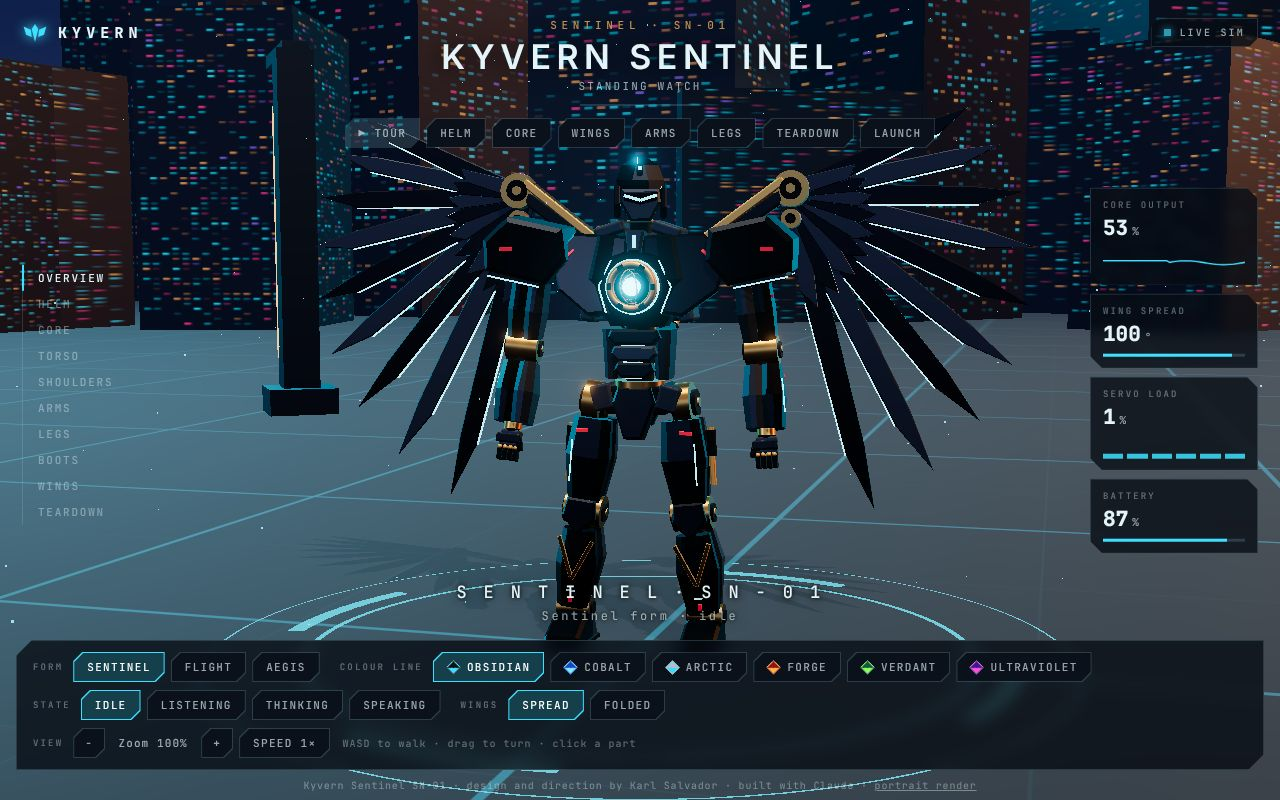
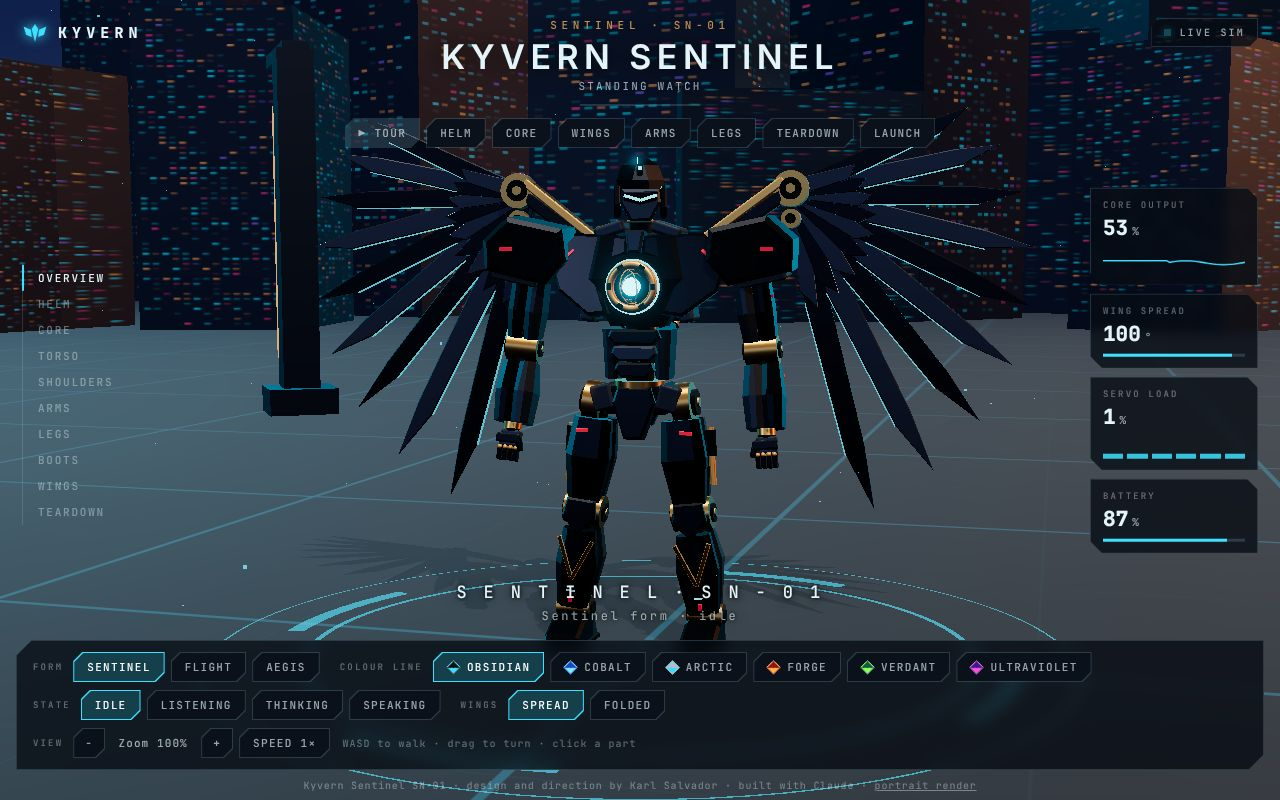
Wire labels to their parts and cut the excess lights
Labels now have a dot on the part's own metal and a leader line out to the
name, sit on the side their part is on, and are pushed apart so they never
overlap. The anchor snaps to the nearest piece of the part, so rings and the
blade fan are no longer labelled in empty air.

The model loses most of its seam lights (abdomen, pectorals, sternum,
pauldrons, forearms, thighs); the visor, core, crest and shin lights stay.
Wing blade lines become a thin dim edge. Bloom, rim lights, pad rings, dust,
city windows and pylon lamps are all turned down.

Claude-Session: https://claude.ai/code/session_01KMbkSirJf4C6Ak7wdUTyXJ

diff --git a/src/sentinel/model.js b/src/sentinel/model.js
@@ -21,7 +21,7 @@ const BLADES = 9;
 const WRIST = [0.84, 0.58, -0.1];
 
 export function buildSentinel(rig, m) {
-  const { armor: A, armor2: A2, frame: F, trim: T, glow: G, mark: R, core: CORE, thrust: TH, visor: V } = m;
+  const { armor: A, armor2: A2, frame: F, trim: T, glow: G, mark: R, core: CORE, thrust: TH, visor: V, edge: E } = m;
   for (const s of SECTIONS) rig.section(s);
   const handles = { feathers: [], orbit: [], reactor: null };
 
@@ -45,7 +45,7 @@ export function buildSentinel(rig, m) {
   abdomen.add('Spine column', group([mesh(disc(0.11, 0.44), F, [0, 0.21, 0]), mesh(ring(0.115, 0.012, 'y'), T, [0, 0.12, 0]), mesh(ring(0.115, 0.012, 'y'), T, [0, 0.3, 0])]));
   const ab = (w) => [[-w, 0.058], [w, 0.058], [w + 0.025, 0], [w - 0.03, -0.058], [-w + 0.03, -0.058], [-w - 0.025, 0]];
   [['Upper ab plate', 0.18, 0.34, A], ['Mid ab plate', 0.155, 0.215, A2], ['Lower ab plate', 0.13, 0.09, A]].forEach(([name, w, y, mat], i) => {
-    const g = group([mesh(plate(ab(w), 0.12, 0.018), mat), seam([-w * 0.5, -0.064], [w * 0.5, -0.064], 0.055, 0.008)], [0, y, 0.15], [-4, 0, 0]);
+    const g = group([mesh(plate(ab(w), 0.12, 0.018), mat)], [0, y, 0.15], [-4, 0, 0]);
     abdomen.add(name, g, [0, 0, 0.35 + i * 0.16]);
   });
   for (const s of [1, -1]) {
@@ -60,15 +60,13 @@ export function buildSentinel(rig, m) {
   for (const s of [1, -1]) {
     const g = group([
       mesh(plate(pec, 0.15, 0.025), A),
-      seam([0.2, 0.1], [0.27, 0.3], 0.077),
-      seam([0.27, 0.3], [0.17, 0.5], 0.077),
       marker([0.52, 0.56, 0.078], 0.08, 0.024, [0, 0, -40]),
     ], [0, 0, 0.22], [-7, 12, 0]);
     const side = group([g]);
     side.scale.x = s;
     chest.add(`Pectoral ${s > 0 ? 'L' : 'R'}`, side, [s * 0.38, 0.1, 0.5]);
   }
-  chest.add('Sternum', group([mesh(plate([[-0.075, 0.72], [0.075, 0.72], [0.05, 0.55], [-0.05, 0.55]], 0.16, 0.02), A2), mesh(box(0.03, 0.1, 0.012, 0.004), G, [0, 0.635, 0.082])], [0, 0, 0.23], [-7, 0, 0]), [0, 0.3, 0.55]);
+  chest.add('Sternum', group([mesh(plate([[-0.075, 0.72], [0.075, 0.72], [0.05, 0.55], [-0.05, 0.55]], 0.16, 0.02), A2)], [0, 0, 0.23], [-7, 0, 0]), [0, 0.3, 0.55]);
   for (const s of [1, -1]) {
     chest.add(`Collar ${s > 0 ? 'L' : 'R'}`, mesh(box(0.24, 0.1, 0.3, 0.03), A2, [s * 0.22, 0.73, -0.02], [0, 0, s * -18]), [s * 0.2, 0.4, 0]);
     chest.add(`Side intake ${s > 0 ? 'L' : 'R'}`, group([mesh(box(0.12, 0.3, 0.3, 0.03), A2), marker([s * 0.062, 0.05, 0.06], 0.012, 0.03, [0, 90, 0])], [s * 0.36, 0.18, 0], [0, 0, s * 12]), [s * 0.42, -0.1, 0]);
@@ -122,8 +120,6 @@ export function buildSentinel(rig, m) {
     shoulder.add('Shoulder joint', group([mesh(new THREE.SphereGeometry(0.13, 24, 16), F), mesh(disc(0.14, 0.06, 'x'), T, [-0.09, 0, 0])]));
     shoulder.add('Pauldron', group([
       mesh(plate([[-0.2, 0.04], [-0.14, 0.27], [0.3, 0.3], [0.47, 0.1], [0.43, -0.13], [-0.06, -0.17]], 0.46, 0.035), A),
-      seam([-0.02, -0.19], [0.4, -0.165], 0.22),
-      seam([-0.02, -0.19], [0.4, -0.165], -0.22),
       marker([0.27, 0.06, 0.232], 0.1, 0.03, [0, 0, -8]),
     ]), [0.4, 0.3, 0]);
     shoulder.add('Pauldron liner', mesh(box(0.36, 0.07, 0.36, 0.02), A2, [0.2, -0.16, 0], [0, 0, 4]), [0.2, -0.2, 0]);
@@ -139,7 +135,7 @@ export function buildSentinel(rig, m) {
     fore.add('Elbow joint', group([mesh(disc(0.11, 0.25, 'x'), T), mesh(disc(0.065, 0.29, 'x'), F), mesh(disc(0.03, 0.31, 'x', 6), T)]), [0, 0.08, -0.25]);
     fore.add('Radius frame', mesh(disc(0.06, 0.5), F, [0, -0.33, 0]));
     const gaunt = [{ y: -0.12, w: 0.13, d: 0.24, c: 0.05 }, { y: -0.36, w: 0.17, d: 0.33, c: 0.06 }, { y: -0.6, w: 0.14, d: 0.27, c: 0.05 }];
-    fore.add('Gauntlet outer', group([mesh(halfLoft(gaunt, 0.066), A), mesh(box(0.012, 0.26, 0.016, 0.004), G, [0.153, -0.36, 0.06], [0, 0, 2]), marker([0.152, -0.2, -0.04], 0.012, 0.03, [0, 90, 0])]), [0.32, 0, 0]);
+    fore.add('Gauntlet outer', group([mesh(halfLoft(gaunt, 0.066), A), marker([0.152, -0.2, -0.04], 0.012, 0.03, [0, 90, 0])]), [0.32, 0, 0]);
     fore.add('Gauntlet inner', mesh(halfLoft(gaunt, -0.066), A2), [-0.28, 0, 0]);
     fore.add('Gauntlet fin', mesh(plate([[0, 0.14], [0.1, 0.04], [0.08, -0.16], [0, -0.14]], 0.05, 0.012), A, [0, -0.36, -0.15], [0, 90, 0]), [0, 0, -0.3]);
 
@@ -155,7 +151,7 @@ export function buildSentinel(rig, m) {
     thigh.add('Hip joint', group([mesh(disc(0.16, 0.13, 'x', 36), T), mesh(disc(0.1, 0.2, 'x'), F), mesh(disc(0.045, 0.23, 'x', 6), T)], [0.03, 0, 0]), [0.32, 0.1, 0]);
     thigh.add('Femur', mesh(disc(0.08, 0.7), F, [0, -0.43, 0]));
     const th = (z, k) => [{ y: -0.12, w: 0.3 * k, d: 0.17, c: 0.06, z }, { y: -0.42, w: 0.35 * k, d: 0.21, c: 0.07, z: z * 1.1 }, { y: -0.77, w: 0.25 * k, d: 0.15, c: 0.05, z: z * 0.85 }];
-    thigh.add('Thigh shell, front', group([mesh(loft(th(0.09, 1)), A), marker([0.05, -0.22, 0.186], 0.1, 0.03, [0, 0, -10]), seam([0.115, -0.3], [0.1, -0.62], 0.2, 0.012)]), [0, 0, 0.4]);
+    thigh.add('Thigh shell, front', group([mesh(loft(th(0.09, 1)), A), marker([0.05, -0.22, 0.186], 0.1, 0.03, [0, 0, -10])]), [0, 0, 0.4]);
     thigh.add('Thigh shell, rear', mesh(loft(th(-0.09, 0.94)), A2), [0, 0, -0.4]);
     thigh.add('Thigh actuator', group([mesh(disc(0.024, 0.44), T), mesh(disc(0.038, 0.2), F, [0, 0.1, 0])], [0.19, -0.42, -0.02], [0, 0, -3]), [0.3, 0, 0]);
 
@@ -199,7 +195,7 @@ export function buildSentinel(rig, m) {
       const blade = group([
         mesh(plate([[0, -w * 0.5], [L * 0.3, -w], [L * 0.82, -w * 0.8], [L, 0.01], [L * 0.8, w * 0.42], [0, w * 0.5]], 0.03, 0.008), i % 2 ? A2 : A),
         mesh(plate([[0.04, -w * 0.7], [L * 0.3, -w * 1.15], [L * 0.36, -w * 0.3], [0.06, w * 0.6]], 0.024, 0.006), i % 2 ? A : A2, [0, 0, 0.022]),
-        beam([L * 0.34, -w * 1.02, 0], [L * 0.82, -w * 0.86, 0], 0.011, 0.034, G),
+        beam([L * 0.34, -w * 1.02, 0], [L * 0.82, -w * 0.86, 0], 0.008, 0.033, E),
       ], [0, 0, -0.03 - i * 0.022]);
       const a = ((24 - k * 106) * Math.PI) / 180;
       blades.add(`Blade ${i + 1}`, blade, [Math.cos(a) * 0.5, Math.sin(a) * 0.5, -i * 0.03]);

diff --git a/src/framework/stage.js b/src/framework/stage.js
@@ -72,7 +72,7 @@ export class Stage {
 
     this.composer = new EffectComposer(renderer);
     this.composer.addPass(new RenderPass(this.scene, this.camera));
-    this.bloom = new UnrealBloomPass(new THREE.Vector2(1, 1), 0.3, 0.5, 1.2);
+    this.bloom = new UnrealBloomPass(new THREE.Vector2(1, 1), 0.16, 0.45, 1.35);
     this.composer.addPass(this.bloom);
     this.composer.addPass(new OutputPass());
 
@@ -100,9 +100,9 @@ export class Stage {
     this.key = key;
     this.keyOffset = key.position.clone();
     this.scene.add(key, key.target);
-    const cool = new THREE.DirectionalLight(t.rimCool, 2.4);
+    const cool = new THREE.DirectionalLight(t.rimCool, 1.4);
     cool.position.set(-7, 5, -8);
-    const warm = new THREE.DirectionalLight(t.rimWarm, 1.3);
+    const warm = new THREE.DirectionalLight(t.rimWarm, 0.9);
     warm.position.set(8, 3.5, -6);
     const fill = new THREE.DirectionalLight('#7fa8ff', 0.7);
     fill.position.set(-6, 2, 6);
@@ -122,7 +122,7 @@ export class Stage {
       env.add(m);
     };
     panel(9, 5, '#ffffff', 7, [0, 9.5, 2]);
-    panel(3, 9, t.rimCool, 9, [-11, 4, -4]);
+    panel(3, 9, t.rimCool, 5, [-11, 4, -4]);
     panel(3, 9, t.rimWarm, 7, [11, 4, -5]);
     panel(12, 4, '#8db4ff', 2.2, [0, 3, 13]);
     panel(1.2, 8, '#ffffff', 6, [-7, 4, 9]);
@@ -180,7 +180,7 @@ export class Stage {
     seams.colorSpace = THREE.SRGBColorSpace;
     const deck = new THREE.Mesh(
       new THREE.CircleGeometry(120, 72),
-      new THREE.MeshStandardMaterial({ color: t.floor, roughness: 0.92, metalness: 0.1, envMapIntensity: 0.25, emissive: '#ffffff', emissiveMap: seams, emissiveIntensity: 0.22 }),
+      new THREE.MeshStandardMaterial({ color: t.floor, roughness: 0.92, metalness: 0.1, envMapIntensity: 0.25, emissive: '#ffffff', emissiveMap: seams, emissiveIntensity: 0.12 }),
     );
     deck.rotation.x = -Math.PI / 2;
     deck.receiveShadow = true;
@@ -189,7 +189,7 @@ export class Stage {
 
     // the pad the robot stands on
     const pad = new THREE.Group();
-    const ringMat = new THREE.MeshBasicMaterial({ color: new THREE.Color(t.grid), transparent: true, opacity: 0.7, depthWrite: false });
+    const ringMat = new THREE.MeshBasicMaterial({ color: new THREE.Color(t.grid), transparent: true, opacity: 0.38, depthWrite: false });
     const ring = (r0, r1, a0 = 0, len = Math.PI * 2) => {
       const m = new THREE.Mesh(new THREE.RingGeometry(r0, r1, 96, 1, a0, len), ringMat);
       m.rotation.x = -Math.PI / 2;
@@ -232,7 +232,7 @@ export class Stage {
     const win = new THREE.CanvasTexture(cv);
     win.colorSpace = THREE.SRGBColorSpace;
     win.magFilter = THREE.NearestFilter;
-    const towerMat = new THREE.MeshStandardMaterial({ color: '#0c121c', roughness: 0.5, metalness: 0.6, emissive: '#ffffff', emissiveMap: win, emissiveIntensity: 0.7 });
+    const towerMat = new THREE.MeshStandardMaterial({ color: '#0c121c', roughness: 0.5, metalness: 0.6, emissive: '#ffffff', emissiveMap: win, emissiveIntensity: 0.4 });
     const count = 150;
     const towers = new THREE.InstancedMesh(new THREE.BoxGeometry(1, 1, 1).translate(0, 0.5, 0), towerMat, count);
     const m = new THREE.Matrix4();
@@ -251,8 +251,8 @@ export class Stage {
 
     const pylons = new THREE.Group();
     const steel = new THREE.MeshStandardMaterial({ color: '#151c27', roughness: 0.45, metalness: 0.8 });
-    const lampCool = new THREE.MeshBasicMaterial({ color: new THREE.Color(t.rimCool).multiplyScalar(1.25) });
-    const lampWarm = new THREE.MeshBasicMaterial({ color: new THREE.Color(t.rimWarm).multiplyScalar(1.25) });
+    const lampCool = new THREE.MeshBasicMaterial({ color: new THREE.Color(t.rimCool).multiplyScalar(0.7) });
+    const lampWarm = new THREE.MeshBasicMaterial({ color: new THREE.Color(t.rimWarm).multiplyScalar(0.7) });
     for (let i = 0; i < 10; i++) {
       const a = (i / 10) * Math.PI * 2 + 0.31;
       if (Math.sin(a) > -0.2 || Math.abs(Math.cos(a)) < 0.3) continue; // keep the camera side clear
@@ -272,7 +272,7 @@ export class Stage {
   }
 
   motes() {
-    const n = 260;
+    const n = 110;
     const pos = new Float32Array(n * 3);
     for (let i = 0; i < n; i++) {
       const a = Math.random() * Math.PI * 2;
@@ -285,7 +285,7 @@ export class Stage {
     geo.setAttribute('position', new THREE.BufferAttribute(pos, 3));
     const pts = new THREE.Points(
       geo,
-      new THREE.PointsMaterial({ color: new THREE.Color(this.theme.grid).multiplyScalar(1.4), size: 0.035, transparent: true, opacity: 0.7, depthWrite: false, blending: THREE.AdditiveBlending }),
+      new THREE.PointsMaterial({ color: new THREE.Color(this.theme.grid).multiplyScalar(1.4), size: 0.03, transparent: true, opacity: 0.4, depthWrite: false, blending: THREE.AdditiveBlending }),
     );
     this.dust = pts;
     this.scene.add(pts);

diff --git a/src/style.css b/src/style.css
@@ -19,7 +19,7 @@ body { color: var(--fg); font: 13px/1.4 var(--sans); -webkit-font-smoothing: ant
 #gl:active { cursor: grabbing; }
 #hud { position: fixed; inset: 0; pointer-events: none; }
 #hud button, #hud a { pointer-events: auto; }
-body.bare #hud > :not(.labels):not(.hover) { display: none; }
+body.bare #hud > :not(.labels):not(.wires):not(.hover) { display: none; }
 .fallback { position: fixed; inset: auto 0 45% 0; text-align: center; color: var(--dim); }
 a { color: inherit; }
 
@@ -54,7 +54,7 @@ h1 { margin: 4px 0 2px; font: 600 clamp(22px, 3.2vw, 34px) var(--sans); letter-s
 .sw { width: 13px; height: 13px; background: linear-gradient(135deg, var(--a) 0 55%, var(--b) 55% 100%); border: 1px solid rgba(255, 255, 255, 0.35); transform: rotate(45deg) scale(0.8); }
 
 /* sections, left */
-.sections { position: absolute; left: 22px; top: 50%; transform: translateY(-52%); display: flex; flex-direction: column; border-left: 1px solid var(--line); }
+.sections { position: absolute; left: 22px; top: 44%; transform: translateY(-58%); display: flex; flex-direction: column; border-left: 1px solid var(--line); }
 .sec { all: unset; pointer-events: auto; cursor: pointer; padding: 6px 14px; margin-left: -1px; border-left: 2px solid transparent; color: var(--mute); font: 600 11px var(--mono); letter-spacing: 0.16em; text-transform: uppercase; transition: color 0.15s; }
 .sec:hover { color: var(--fg); }
 .sec small { display: none; font: 10px var(--mono); letter-spacing: 0.06em; text-transform: none; color: var(--dim); margin-top: 3px; }
@@ -74,9 +74,15 @@ h1 { margin: 4px 0 2px; font: 600 clamp(22px, 3.2vw, 34px) var(--sans); letter-s
 .bars i { flex: 1; background: var(--accent); opacity: 0.85; transition: height 0.25s; }
 .card canvas { width: 100%; height: 26px; display: block; }
 
-/* labels on the model */
-.labels div { position: absolute; left: 0; top: 0; white-space: nowrap; font: 600 10px var(--mono); letter-spacing: 0.14em; text-transform: uppercase; color: var(--fg); padding: 3px 7px; background: rgba(5, 9, 15, 0.72); border-left: 2px solid var(--accent); will-change: transform; }
-.labels div.sub { color: #ffd9a8; border-left-color: var(--bronze); letter-spacing: 0.08em; }
+/* labels on the model: a dot on the part, a leader line, then the name */
+.wires { position: absolute; inset: 0; width: 100%; height: 100%; overflow: visible; }
+.wires path { fill: none; stroke: var(--accent); stroke-width: 1.2; stroke-linejoin: round; filter: drop-shadow(0 0 2px #000); }
+.wires circle { fill: var(--bg); stroke: var(--accent); stroke-width: 1.6; }
+.wires path.sub, .wires circle.sub { stroke: var(--bronze); }
+.labels div { position: absolute; left: 0; top: 0; white-space: nowrap; font: 600 10px var(--mono); letter-spacing: 0.14em; text-transform: uppercase; color: var(--fg); padding: 3px 7px; background: rgba(5, 9, 15, 0.86); border: 0 solid var(--accent); will-change: transform; }
+.labels div.right { border-left-width: 2px; }
+.labels div.left { border-right-width: 2px; }
+.labels div.sub { color: #ffd9a8; border-color: var(--bronze); letter-spacing: 0.08em; }
 .hover { position: absolute; left: 0; top: 0; opacity: 0; transition: opacity 0.12s; font: 600 10px var(--mono); letter-spacing: 0.16em; text-transform: uppercase; padding: 5px 9px; background: var(--accent); color: #031018; white-space: nowrap; }
 
 /* words under the robot */

diff --git a/src/main.js b/src/main.js
@@ -257,16 +257,62 @@ canvas.addEventListener('dblclick', () => stage.home());
 const tmp = new THREE.Vector3();
 const box = new THREE.Box3();
 const scr = { x: 0, y: 0, visible: false };
+// Each label is tied to its part: a dot sits on the part's own metal and a leader line runs
+// out to the name. Names are pushed apart so two never sit on top of each other.
+const meshCache = new Map();
+function anchor(key, objects, out) {
+  let list = meshCache.get(key);
+  if (!list) {
+    list = [];
+    for (const o of objects) o.traverse((m) => m.isMesh && list.push(m));
+    for (const m of list) if (!m.geometry.boundingSphere) m.geometry.computeBoundingSphere();
+    meshCache.set(key, list);
+  }
+  box.makeEmpty();
+  for (const o of objects) box.expandByObject(o);
+  box.getCenter(out);
+  // the centre of a part can be empty air (a ring, a fan of blades): snap to its nearest piece of metal
+  let best = Infinity;
+  for (const m of list) {
+    const c = tmp2.copy(m.geometry.boundingSphere.center).applyMatrix4(m.matrixWorld);
+    const d = c.distanceToSquared(out);
+    if (d < best) {
+      best = d;
+      tmp3.copy(c);
+    }
+  }
+  return list.length ? out.copy(tmp3) : out;
+}
+const tmp2 = new THREE.Vector3();
+const tmp3 = new THREE.Vector3();
 function labels() {
   const out = [];
   const push = (text, v, sub, alpha) => {
     stage.project(v, scr);
-    if (scr.visible && alpha > 0.05) out.push({ text, x: scr.x, y: scr.y, sub, alpha });
+    if (scr.visible && alpha > 0.05) out.push({ text, ax: scr.x, ay: scr.y, sub, alpha });
   };
   for (const p of rig.parts.values()) {
     if (p.sub > 0.05) {
-      for (const s of p.subs) push(s.name, box.setFromObject(s.object).getCenter(tmp), true, Math.min(1, p.sub * 1.4));
-    } else if (p.sep > 0.25 && p.sepTarget > 0) push(p.label, p.worldCentre(tmp), false, Math.min(1, (p.sep - 0.25) * 2));
+      for (const s of p.subs) push(s.name, anchor(s, [s.object], tmp), true, Math.min(1, p.sub * 1.4));
+    } else if (p.sep > 0.25 && p.sepTarget > 0) push(p.label, anchor(p, p.subs.map((s) => s.object), tmp), false, Math.min(1, (p.sep - 0.25) * 2));
+  }
+  if (out.length) {
+    // names go out to the side their part is on, then spread down so they do not collide
+    const mid = out.reduce((s, it) => s + it.ax, 0) / out.length;
+    const reach = out.length > 8 ? 64 : 48;
+    for (const dir of [-1, 1]) {
+      const side = out.filter((it) => (it.ax >= mid ? 1 : -1) === dir).sort((a, b) => a.ay - b.ay);
+      let last = -Infinity;
+      for (const it of side) {
+        it.dir = dir;
+        it.lx = it.ax + dir * reach;
+        it.ly = Math.max(it.ay, last + 21);
+        last = it.ly;
+      }
+      // if the stack ran long, slide it back up so it stays centred on its parts
+      const over = side.reduce((s, it) => s + (it.ly - it.ay), 0) / (side.length || 1);
+      for (const it of side) it.ly -= over / 2;
+    }
   }
   hud.drawLabels(out);
 }

diff --git a/src/framework/hud.js b/src/framework/hud.js
@@ -26,6 +26,7 @@ export class Hud {
       </div>
       <nav class="sections"></nav>
       <aside class="cards"></aside>
+      <svg class="wires"></svg>
       <div class="labels"></div>
       <div class="hover"></div>
       <div class="caption"><div class="cap-main">${cfg.banner}</div><div class="cap-sub"></div></div>
@@ -38,6 +39,7 @@ export class Hud {
     this.prog = q('.prog i');
     this.capSub = q('.cap-sub');
     this.labels = q('.labels');
+    this.wires = q('.wires');
     this.hover = q('.hover');
     this.partcard = q('.partcard');
     this.pool = [];
@@ -180,24 +182,37 @@ export class Hud {
     this.partcard.classList.add('on');
   }
 
-  // Floating labels. `items` is [{ text, x, y, sub }], already in screen pixels.
+  // Labels wired to their parts. `items` is [{ text, ax, ay (the point on the part), lx, ly
+  // (where the name sits), dir (-1 name on the left, 1 on the right), sub, alpha }], in screen pixels.
   drawLabels(items) {
+    const NS = 'http://www.w3.org/2000/svg';
     while (this.pool.length < items.length) {
       const d = el('div');
       this.labels.append(d);
-      this.pool.push(d);
+      const line = document.createElementNS(NS, 'path');
+      const dot = document.createElementNS(NS, 'circle');
+      dot.setAttribute('r', 3);
+      this.wires.append(line, dot);
+      this.pool.push({ d, line, dot });
     }
-    this.pool.forEach((d, i) => {
+    this.pool.forEach(({ d, line, dot }, i) => {
       const it = items[i];
-      if (!it) {
-        if (d.style.display !== 'none') d.style.display = 'none';
-        return;
-      }
+      const show = it ? '' : 'none';
+      if (d.style.display !== show) d.style.display = line.style.display = dot.style.display = show;
+      if (!it) return;
       if (d._t !== it.text) d.textContent = d._t = it.text;
-      d.className = it.sub ? 'sub' : '';
-      d.style.display = '';
-      d.style.transform = `translate(${it.x.toFixed(1)}px, ${it.y.toFixed(1)}px) translate(12px, -50%)`;
-      d.style.opacity = it.alpha == null ? 1 : it.alpha;
+      const cls = (it.sub ? 'sub ' : '') + (it.dir < 0 ? 'left' : 'right');
+      if (d.className !== cls) {
+        d.className = cls;
+        line.setAttribute('class', it.sub ? 'sub' : '');
+        dot.setAttribute('class', it.sub ? 'sub' : '');
+      }
+      d.style.transform = `translate(${it.lx.toFixed(1)}px, ${it.ly.toFixed(1)}px) translate(${it.dir < 0 ? '-100%' : '0'}, -50%)`;
+      d.style.opacity = line.style.opacity = dot.style.opacity = it.alpha;
+      const elbow = it.lx - it.dir * 14;
+      line.setAttribute('d', `M${it.ax.toFixed(1)} ${it.ay.toFixed(1)}L${elbow.toFixed(1)} ${it.ly.toFixed(1)}L${it.lx.toFixed(1)} ${it.ly.toFixed(1)}`);
+      dot.setAttribute('cx', it.ax.toFixed(1));
+      dot.setAttribute('cy', it.ay.toFixed(1));
     });
   }
 

diff --git a/src/sentinel/config.js b/src/sentinel/config.js
@@ -9,14 +9,15 @@ export const ROLES = {
   trim: { rough: 0.3, metal: 1, env: 1.3 },
   mark: { rough: 0.45, metal: 0.3 },
   visor: { rough: 0.12, metal: 0.9, color: '#04070b' },
-  glow: { glow: 2.1 },
-  core: { glow: 3.4 },
+  glow: { glow: 1.5 },
+  edge: { glow: 0.55 }, // the thin line on each wing blade: a hint, not a neon tube,
+  core: { glow: 2.6 },
   thrust: { glow: 0.6 },
 };
 
 // Colour lines. Obsidian is the locked design; the others are the same robot repainted.
 const line = (id, name, armor, armor2, frame, trim, glow, mark) => ({
-  id, name, swatch: [armor, glow], roles: { armor, armor2, frame, trim, glow, core: glow, thrust: glow, mark },
+  id, name, swatch: [armor, glow], roles: { armor, armor2, frame, trim, glow, edge: glow, core: glow, thrust: glow, mark },
 });
 export const LINES = [
   line('obsidian', 'Obsidian', '#101114', '#262a31', '#08090b', '#b98342', '#3fe0ff', '#e0262e'),
